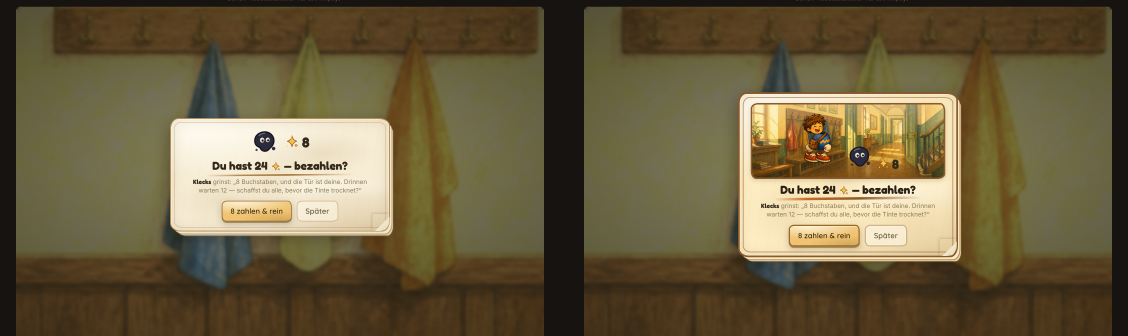
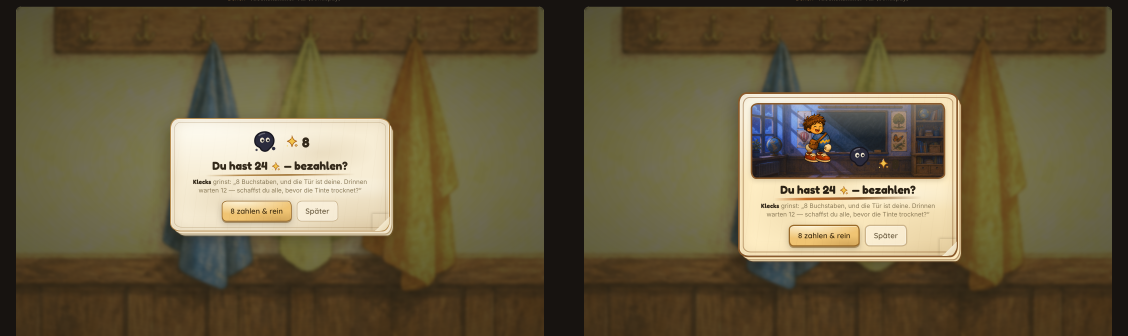
R5-W1 · D2 · die Bank zeigt jede Zeremonie in IHREM Raum (Kritiker-Befund: fünfmal derselbe Flur)

Changed region(s): [[0.6516, 0.2976, 0.8378, 0.5357]]

diff --git a/packages/game-paint/src/dev/CardGallery.tsx b/packages/game-paint/src/dev/CardGallery.tsx
@@ -101,14 +101,19 @@ export default function CardGallery({ level, art, tasks, Overlay, which }: Galle
     books: 1, booksTotal: 1,
   };
 
-  const ceremony = (id: string, label: string, o: Record<string, unknown>, note?: string): Surface => ({
+  // R5-W1 · D2: WHICH ROOM a ceremony happens in. The scene cut looks through
+  // the card at the phase's own plate, so a bench that runs every panel in p1
+  // shows the same hallway five times — a blind critic counted that against the
+  // panels („the identical hallway reused across five unrelated ceremonies").
+  // In play they happen in different rooms; the bench says which.
+  const ceremony = (id: string, label: string, o: Record<string, unknown>, note?: string, phase = "p1"): Surface => ({
     id, label, note,
     render: () => (
       <Overlay
         o={{ req: { use: "quickfire", ctx: { type: "ceremony", beat: "goal" } }, item: null, attempts: 0, typed: "", align: "center", ...o }}
         level={level}
         art={art}
-        phaseId="p1"
+        phaseId={phase}
         onResolve={noop}
         onWorldChange={noop}
         onDismiss={noop}
@@ -174,9 +179,9 @@ export default function CardGallery({ level, art, tasks, Overlay, which }: Galle
     }),
     ceremony("score", "Bilanz-Seite", { card: "score" }),
     ceremony("out", "Tür hinaus", { card: "out" }),
-    ceremony("grant", "Die Gabe", { card: "grant" }),
+    ceremony("grant", "Die Gabe", { card: "grant" }, undefined, "p2"),
     ceremony("cagehint", "Käfig-Hinweis", { card: "cagehint" }),
-    ceremony("bonuspay", "Kleckskammer-Tür", { card: "bonuspay", price: Number(doorEntity?.params?.price ?? 6) }),
+    ceremony("bonuspay", "Kleckskammer-Tür", { card: "bonuspay", price: Number(doorEntity?.params?.price ?? 6) }, undefined, "p2"),
     // R5-W1 · D2: the payload C1 ships, not the one the bench was still guessing.
     // A blind critic read „Der Käfig springt auf — ist frei!" as a broken text
     // interpolation in the GAME; it was the bench handing the panel a captive
@@ -189,8 +194,8 @@ export default function CardGallery({ level, art, tasks, Overlay, which }: Galle
     ceremony("ceremony-wisp", "Rettung · Ding", {
       card: "ceremony",
       ceremony: { skin: "satchel", captiveDe: "die Musikanlage", person: false, first: false },
-    }, "Objekt-Käfig — ch01 hält vier davon"),
-    ceremony("console", "Trost-Karte", { card: "console", typed: "hello" }),
+    }, "Objekt-Käfig — ch01 hält vier davon", "p3"),
+    ceremony("console", "Trost-Karte", { card: "console", typed: "hello" }, undefined, "p4"),
     // R5-W1 · D2: the payload the SHIPPED card takes, not the one the bench
     // once guessed. C1 gave this ceremony the room's own phrase and its leftover
     // seconds; the bench kept handing it the old three fields and the panel
